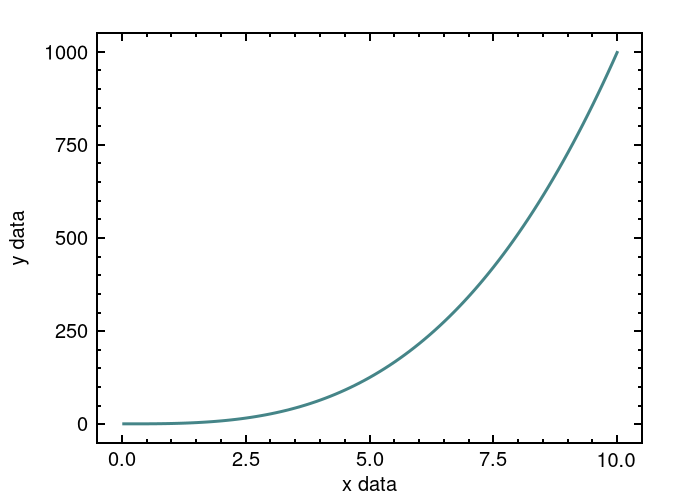
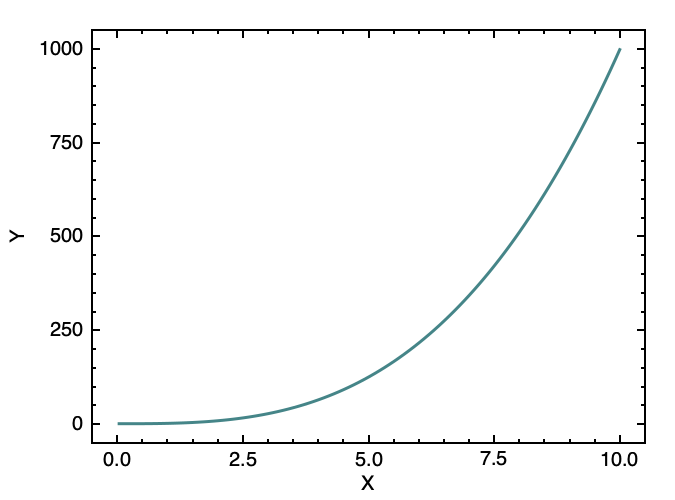
update README example to use shortcut methods

diff --git a/plt/README.md b/plt/README.md
@@ -25,8 +25,8 @@ let ys: Vec<f64> = xs.iter().map(|x| x.powi(3)).collect();
 
 // create subplot
 let mut sp = Subplot::builder()
-    .label(Axes::X, "x data")
-    .label(Axes::Y, "y data")
+    .xlabel("X")
+    .ylabel("Y")
     .build();
 
 // plot data